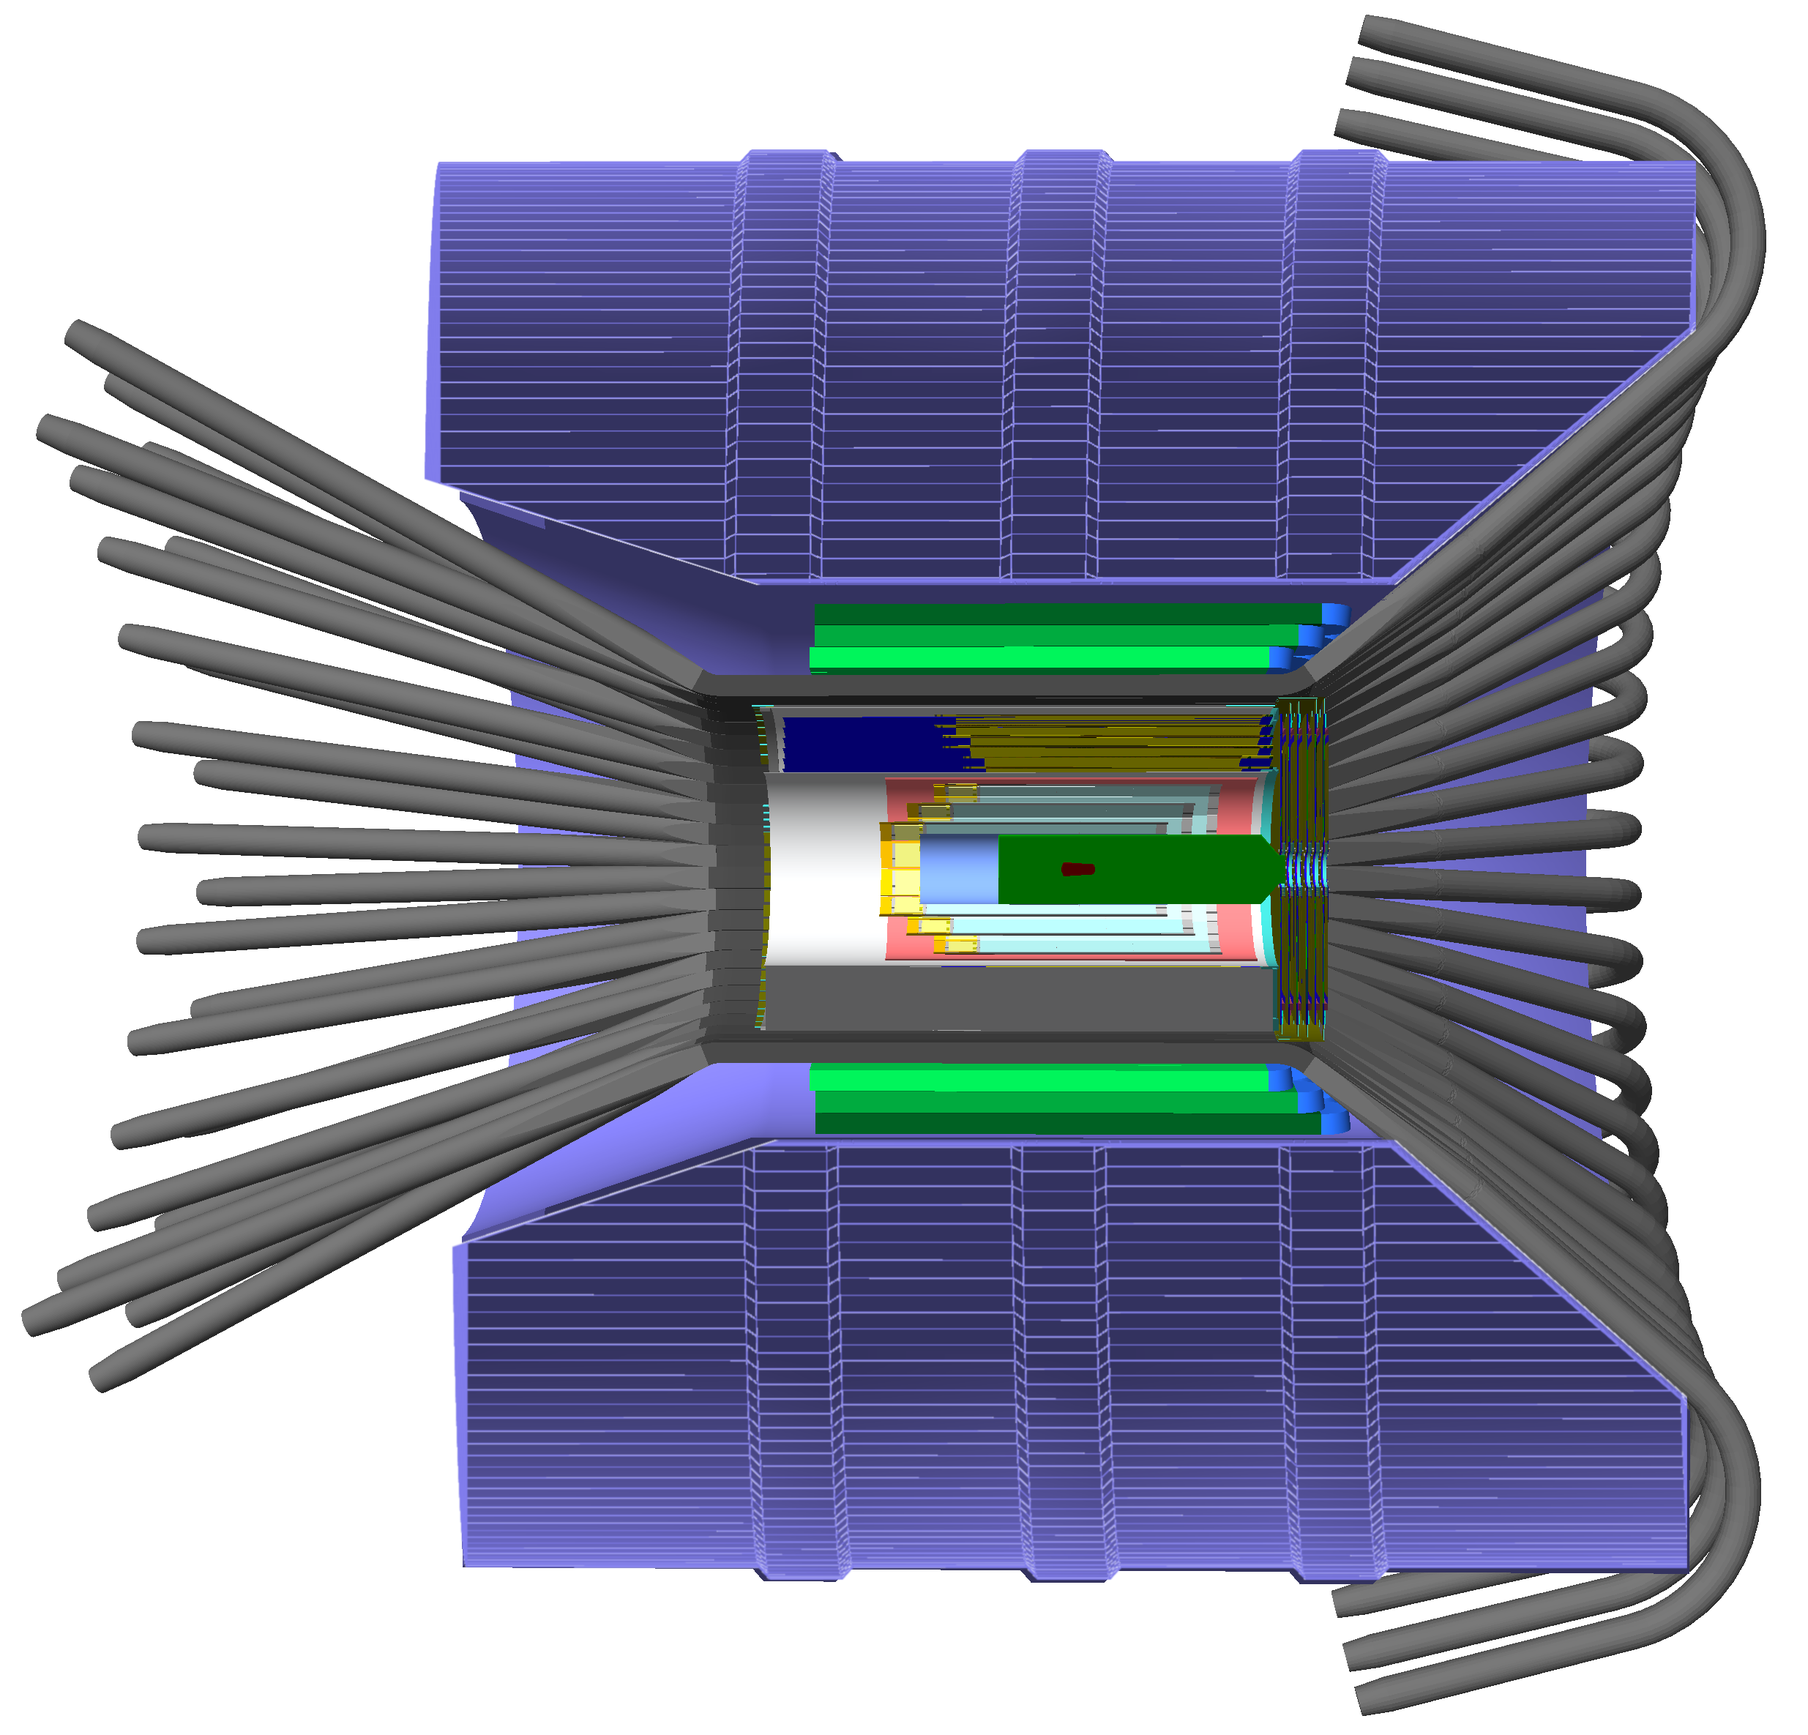
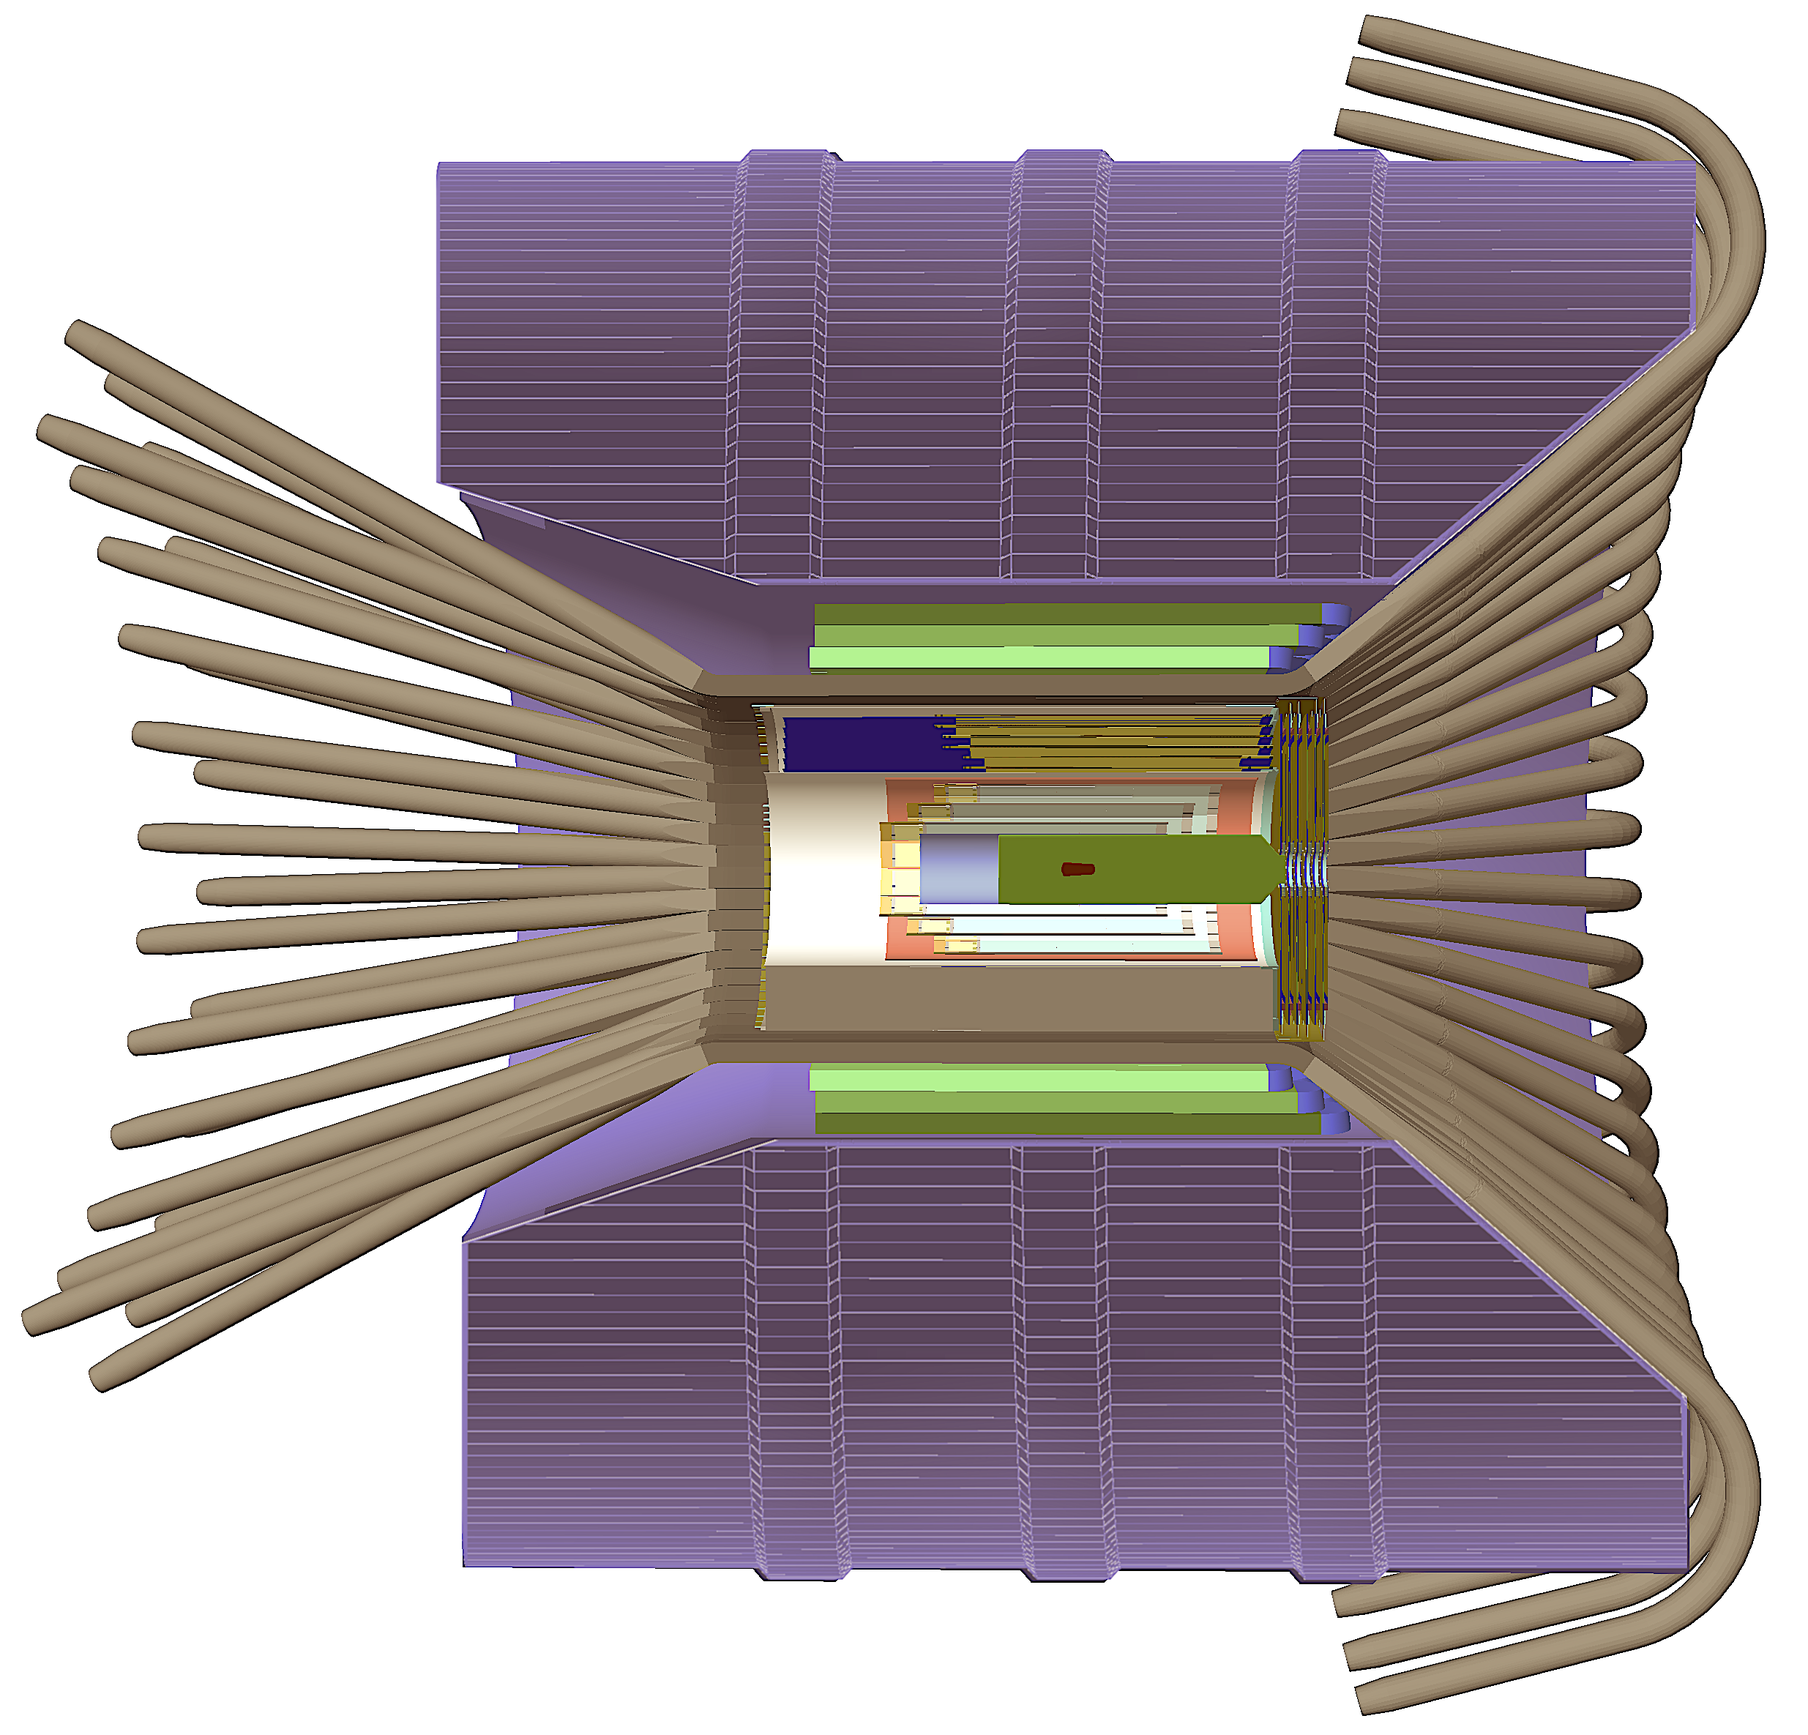
added forward micromegas mention. fixed pics and texts for magnets and beamline.

diff --git a/simulations/magnets.tex b/simulations/magnets.tex
@@ -2,22 +2,22 @@
 
 
 \subsubsection{Geometry}
-The solenoid geometry is produced with the GEMC perl API. The solenoid is a single polycone volume, shown in \F{solenoid}.
+The solenoid geometry is produced with the GEMC perl API. The solenoid is a single Geant4 polycone volume, shown in \F{solenoid}.
 \begin{figure}[h]
 	\centering
 	\includegraphics[width=0.99\columnwidth,keepaspectratio]{img/solenoid.png}
-    \caption{The solenoid volume surrounding the CLAS12 Central Detector.}
+    \caption{The solenoid volume surrounding the CLAS12 Central Detector. Beam is incident from the left.}
 	\label{fig:solenoid}
 \end{figure}
 
 The torus geometry is imported from the engineering CAD model through 54 tessellated volumes. Among the volumes are:
 
 \begin{itemize}
-	\item the bore heat shield and hub components
-	\item the back and front hub steel plates
-	\item the stainless steel coil vacuum jackets
-	\item the torus coils containing the conductors, represented by copper volumes in Geant4
-	\item internal shielding around the hub, made by tungsten cylinders (blue in \F{torus})
+	\item the bore heat shield and hub components;
+	\item the back and front hub steel plates;
+	\item the stainless steel coil vacuum jackets;
+	\item the torus coils containing the conductors, represented by copper volumes in Geant4;
+	\item internal shielding around the hub, made by tungsten cylinders (blue in \F{torus}).
 \end{itemize}
 
 The torus hub is protected from the beampipe background with additional tungsten shielding.
@@ -30,7 +30,7 @@ The torus geometry is shown in \F{torus}.
 	\caption{Top: the GEMC implementation of the torus hardware. The volumes are imported from the CAD engineering model.
              The stainless steel vacuum jacket embeds the Geant4 coil volumes.
 			 Bottom: a section view of the torus in the vicinity of the beamline. The warm and cold hubs are visible, along with the
-			 tungsten shielding in the innermost part of the hub.}
+			 tungsten shielding in the innermost part of the hub. Beam is incident from the left.}
 	\label{fig:torus}
 \end{figure}
 
@@ -38,10 +38,10 @@ The torus geometry is shown in \F{torus}.
 \subsubsection{Magnetic Field Maps} \label{sec:clas12FieldMaps}
 
 The CLAS12 torus and solenoid field maps are imported into the simulation using ascii files. Both fields can be scaled by an arbitrary factor.
-Both fields are defined in the Hall-B coordinate system and both can be shifted and tilted by additional delta amounts.
+Both fields are defined in the Hall-B coordinate system and both can be shifted and tilted by additional small amounts.
 
 \subsubsection{Solenoid}
-The solenoid field map has cylindrical symmetry around the $z$-axis, so the map used in the simulation is defined
+The solenoid field map has cylindrical symmetry around the $z$-axis (beamline), so the map used in the simulation is defined
 in the transverse / longitudinal plane and then rotated when requested by the Geant4 navigation.
 The integration method used in the simulation is the fourth order Runge-Kutta technique \cite{rungeKutta}.
 
@@ -51,11 +51,12 @@ from 0 to 3 m and by 1200 points along the $z$-axis, from \mbox{-3 m} to 3 m.
 The field grid values are linearly interpolated to the $(x,y,z)$ coordinate requested by Geant4.
 Table \ref{tab:solMap} shows the field map ascii data structure. The simulation of one event in a 250 ns time window at
 the CLAS12 luminosity with and without solenoid magnetic field is presented in \F{solenoidONOFF}, showing the effectiveness
-of the solenoid in providing electromagnetic shielding to M\"oller electrons.
+of the solenoid in providing electromagnetic shielding of M\"oller electrons.
 
 \begin{table}[h]
 	\begin{center}
 		\begin{tabular}{| c | c | c | c |}
+			\hline \hline
 			T (m)  & Z (m) &  $B_T$ (T) & $ B_L (T)$ \\
 			\hline
           0.005  &  -0.025 & 0.000013  & 5.000880 \\
@@ -66,9 +67,10 @@ of the solenoid in providing electromagnetic shielding to M\"oller electrons.
           0.010  &  -0.020 & 0.000089  & 5.000867 \\
           0.010  &  -0.015 & 0.000148  & 5.000747 \\
           0.010  &  -0.010 & 0.000203  & 5.000570 \\
+		\hline \hline
 		\end{tabular}
 	\end{center}
-\caption{Solenoid ascii field map values around the target. T is the transverse coordinate $\sqrt{(x^2+y^2)}$ and $z$ is the longitudinal coordinate.
+\caption{Solenoid ascii field map values around the target. T is the transverse coordinate$\sqrt{(x^2+y^2)}$ and $z$ is the longitudinal coordinate.
 		 The solenoid field is centered at $z=0$, the location of the center of the target.}\label{tab:solMap}
 \end{table}
 
@@ -76,13 +78,11 @@ of the solenoid in providing electromagnetic shielding to M\"oller electrons.
 	\centering
 	\includegraphics[width=0.98\columnwidth,keepaspectratio]{img/solenoidOFF.png}
 	\includegraphics[width=0.98\columnwidth,keepaspectratio]{img/solenoidON.png}
-    \caption{An 11 GeV electron beam impinges on a 5-cm long liquid-hydrogen target. The SVT detector is shown.
-             At the full 10$^{35}$ cm$^{-2}$ s$^{-1}$ luminosity, this correspond to 124,000 electrons in a 250 ns time window.
-			 Top: no solenoid field. One full luminosity event in a 250 ns time window produce a storm of M\"oeller electrons that
-             saturates the SVT. Each red point is a recorded hit above the SVT threshold.
-			 Bottom: full solenoid field. One full luminosity event in a 250 ns time window.
-             The solenoid focuses all of the M\"oeller electrons along the beamline, providing an effective electromagnetic shield for CLAS12.
-			 The only hits above threshold are the ones generated by real hadronic tracks. }
+    \caption{An 11 GeV electron beam impinging on a 5-cm long liquid-hydrogen target. The SVT detector is shown.
+             The figure shows one event at the full 10$^{35}$ cm$^{-2}$ s$^{-1}$ luminosity, corresponding to 124,000 electrons in a 250 ns time window.
+			 Top: no solenoid field. A storm of M\"oller electrons saturates the SVT: each point is a recorded hit above the SVT threshold of 30 keV.
+			 Bottom: full solenoid field.
+             The solenoid focuses the M\"oller electrons along the beamline, providing an effective electromagnetic shield for CLAS12. }
 	\label{fig:solenoidONOFF}
 \end{figure}
 
@@ -93,7 +93,7 @@ when requested by the Geant4 navigation. The 3D map covers the entire cartesian 
 movements or imperfections \cite{GhoshalSolenoid}.
 
 The field map has 251 points along the $z$-axis, from 1 m to 3 m. It has 2501 points in the transverse coordinate, from 0 to 5 m.
-It has 16 azimuthal points from 0\mdeg to 30\mdeg. The field grid values are linearly interpolated to the $(x,y,z)$
+It has 16 azimuthal points from 0\mdeg \ to 30\mdeg. The field grid values are linearly interpolated to the $(x,y,z)$
 coordinate requested by Geant4.
 
 The torus field in the sector mid-plane is perpendicular to the $z$-axis and is typically $2.058$ T.
@@ -102,6 +102,7 @@ Table \ref{tab:torMap} shows the field map ascii data structure.
 \begin{table}[h]
 	\begin{center}
 		\begin{tabular}{| c | c | c | c | c | c | }
+		 \hline \hline
          $\phi$ (deg) & T (m)    & Z (m)    &  $B_x$  &    $B_y (T)$    & $B_z$\\
 			\hline
           0.0         &  190.0   &  338.0   &  0       &     0.451275 &  0 \\
@@ -112,9 +113,10 @@ Table \ref{tab:torMap} shows the field map ascii data structure.
           0.0         &  190.0   &  348.0   &  0       &     0.443502 &  0 \\
           0.0         &  190.0   &  350.0   &  0       &     0.441323 &  0 \\
           0.0         &  190.0   &  352.0   &  0       &     0.438935 &  0 \\
+		\hline \hline
 		\end{tabular}
 	\end{center}
-	\caption{Torus ascii field map values near mid-sector. T is the transverse coordinate $\sqrt{(x^2+y^2)}$ and
+	\caption{Torus ascii field map values near mid-sector. T is the transverse coordinate$\sqrt{(x^2+y^2)}$ and
              $z$ is the longitudinal coordinate.}
  	\label{tab:torMap}
 \end{table}

diff --git a/simulations/beamline.tex b/simulations/beamline.tex
@@ -4,10 +4,10 @@ The CLAS12 beamline downstream of the target is made up of several pieces, each 
 depends on the run configuration, which can be:
 
 \begin{itemize}
-	\item FTOn: Forward Tagger present and operational. The M\"oller shield starts at $z$=877 mm from the target center, see \F{beamlineGeometry} top.
-	\item FTOff: FT is present but not operational. The FT tracker is replaced by additional shielding.
+	\item FTOn: Forward Tagger present and operational. The M\"oller shield starts at $z$=877 mm from the target center (see \F{beamlineGeometry} top).
+	\item FTOff: FT is present but not operational. The FT tracker is replaced by an additional shielding.
                  The M\"oller shield starts at $z$=430 mm from the target center, and additional shielding
-                 is present to connect it to the FT, see \F{beamlineGeometry} bottom.
+                 is present to connect it to the FT (see \F{beamlineGeometry} bottom).
 \end{itemize}
 
 
@@ -15,7 +15,7 @@ depends on the run configuration, which can be:
 	\centering
 	\includegraphics[width=0.99\columnwidth,keepaspectratio]{img/ftOnGeometry.png}
 	\includegraphics[width=0.99\columnwidth,keepaspectratio]{img/ftOffGeometry.png}
-	\caption{The two possible CLAS12 FT beamline configurations. Top: FTOn. To clear its acceptance at forward angles (2.50\mdeg-4.50\mdeg)
+	\caption{The two possible CLAS12 FT beamline configurations. Top: FTOn. To clear its acceptance at forward angles (2.50\mdeg-4.50\mdeg),
              the M\"oller shield (cyan color) is attached to the FT tracker, starting at $z$=877 mm from the target.
              Bottom: FToff; the FT is present but not operational. The FT tracker is replaced with a shield.
              The M\"oller cone is placed at $z$=430 mm from the target and additional shielding
@@ -23,9 +23,9 @@ depends on the run configuration, which can be:
 	\label{fig:beamlineGeometry}
 \end{figure}
 
-\subsubsection{Vacuum pipe}
+\subsubsection{Vacuum Pipe}
 
-A beamline is given by a stainless steel vacuum pipe that contains the electron beam.
+The beamline is given by a stainless steel vacuum pipe that contains the electron beam.
 The pipe starts downstream of the target at $z$=80 cm and changes dimensions inside
 the torus and downstream of the torus as detailed in Table \ref{tab:beampipe}.
 
@@ -41,18 +41,18 @@ the torus and downstream of the torus as detailed in Table \ref{tab:beampipe}.
 			\hline \hline
 		\end{tabular}
 	\end{center}
-	\caption{The vacuum beampipe dimensions upstream, inside, and downstream of the torus}\label{tab:beampipe}
+	\caption{The vacuum beampipe dimensions upstream, inside, and downstream of the torus.}\label{tab:beampipe}
 \end{table}
 
 
-\subsubsection{M\"oeller Shielding}
-The M\"oeller shielding is composed of the following elements, shown in \F{moellerShieldingFTOn} for the FTOn configuration
+\subsubsection{M\"oller Shielding}
+The M\"oller shielding is composed of the following elements, shown in \F{moellerShieldingFTOn} for the FTOn configuration
 and in \F{moellerShieldingFTOff} for the FTOff configuration.
 
 \begin{figure}
 	\centering
 	\includegraphics[width=0.99\columnwidth,keepaspectratio]{img/moellerShieldingFTOn.png}
-	\caption{The M\"oeller shielding for the FTOn configuration. On top a section of the overall overview of the cone, FT support, and torus mount.
+	\caption{The M\"oller shielding for the FTOn configuration implemented in GEMC. On top a section of the overall overview of the cone, FT support, and torus mount.
 		     Various individual components are shown: the tungsten cone, the inner FT shield, and the structure of the torus mount.}
 	\label{fig:moellerShieldingFTOn}
 \end{figure}
@@ -60,7 +60,7 @@ and in \F{moellerShieldingFTOff} for the FTOff configuration.
 \begin{figure}
 	\centering
 	\includegraphics[width=0.99\columnwidth,keepaspectratio]{img/moellerShieldingFTOff.png}
-   \caption{The M\"oeller shielding for the FTOff configuration. Top: section of the overall overview of the cone, FT support, and torus mount.
+   \caption{The M\"oller shielding for the FTOff configuration implemented in GEMC. Top: section of the overall overview of the cone, FT support, and torus mount.
             The cone tip extension and the additional shielding that replaces the FT tracker are also shown.}
 	\label{fig:moellerShieldingFTOff}
 \end{figure}
@@ -81,7 +81,7 @@ and in \F{moellerShieldingFTOff} for the FTOff configuration.
 	\end{itemize}
 	\item Additions for FTOff configuration:
 	\begin{itemize}
-	\item a tungsten cone tip to extend the M\"oeller shield cone
+	\item a tungsten cone tip to extend the M\"oller shield cone
 	\item lead cylinder in place of the FT tracker
 	\end{itemize}
 
@@ -98,9 +98,10 @@ by a stainless steel frame is included. These components are shown in \F{downstr
 \begin{figure}
 	\centering
 	\includegraphics[width=0.98\columnwidth,keepaspectratio]{img/downstreamShielding.png}
-	\caption{Torus and downstream shielding. Top: several tungsten cylinders were placed around the vacuum line
-			 (alternating light and dark blocks).
-             Bottom: a long lead cylinder is enclosed by a stainless steel frame.}
+	\caption{Torus and downstream shielding. Beam is incident from the left. Top: several tungsten cylinders were placed around the vacuum line
+			 (alternating light and dark blocks) inside the torus hub.
+             Bottom: downstream of the torus ``nose'' lead component is inserted inside a long lead cylinder enclosed by a stainless steel
+			 frame. This setups shields from back-scattering of the beam off beamline elements. }
 	\label{fig:downstreamShielding}
 \end{figure}
 

diff --git a/simulations/micromegas.tex b/simulations/micromegas.tex
@@ -1,9 +1,12 @@
-\subsection{Barrel Micromegas Tracker (BMT)}
+\subsection{Barrel and Forward Micromegas Trackers (BMT and FMT)}
 
 \subsubsection{Geometry}
 
-The Micromegas geometry is implemented through the native GEMC geometry API.
-There are three micromegas regions, divided azimuthally in three identical sectors. Each sector contain a cover layer with copper ground,
+The Micromegas geometry is implemented through the native GEMC geometry API. There are two subsystems: a ``barrel'' micromegas
+between the SVT and the CTOF, made by are three concentric regions divided azimuthally in three identical sectors; and a ``forward'' micromegas
+made by three disk regions divided azimuthally in six identical sectors. In both subsystems each region is made by two layers, one with wires parallel to the beam and
+one with wires perpendicolar to the beam (see \F{bmtGeometry}).
+Each micromegas sector contain a cover layer with copper ground,
 the printed circuit board (PCB) with the readout strips, the Kapton support, the mesh layer, the ionizing gas, and other layers of material, listed in order below:
 
 \begin{itemize}
@@ -20,7 +23,7 @@ the printed circuit board (PCB) with the readout strips, the Kapton support, the
 	\item ground
 \end{itemize}
 
-The sensitive volume contains argon/isobutane gas and is associated with the BMT hit process routine.
+The sensitive volume contains argon/isobutane gas and is associated with the BMT and FMT hit process routines.
 The geometry is summarized in \F{bmtGeometry}. The strip identification is performed in the Process ID routine.
 
 \begin{figure}
@@ -64,7 +67,7 @@ The digitized output bank variables are summarized in Table \ref{tab:mmBank}.
 			\hline \hline
 		\end{tabular}
 	\end{center}
-	\caption{The digitized BMT bank.}\label{tab:mmBank}
+	\caption{The digitized BMT and FMT banks.}\label{tab:mmBank}
 \end{table}
 
 The time window  of the Micromegas is set to to 132 ns: all Geant4 steps within the same strip and time window are collected in one hit.
